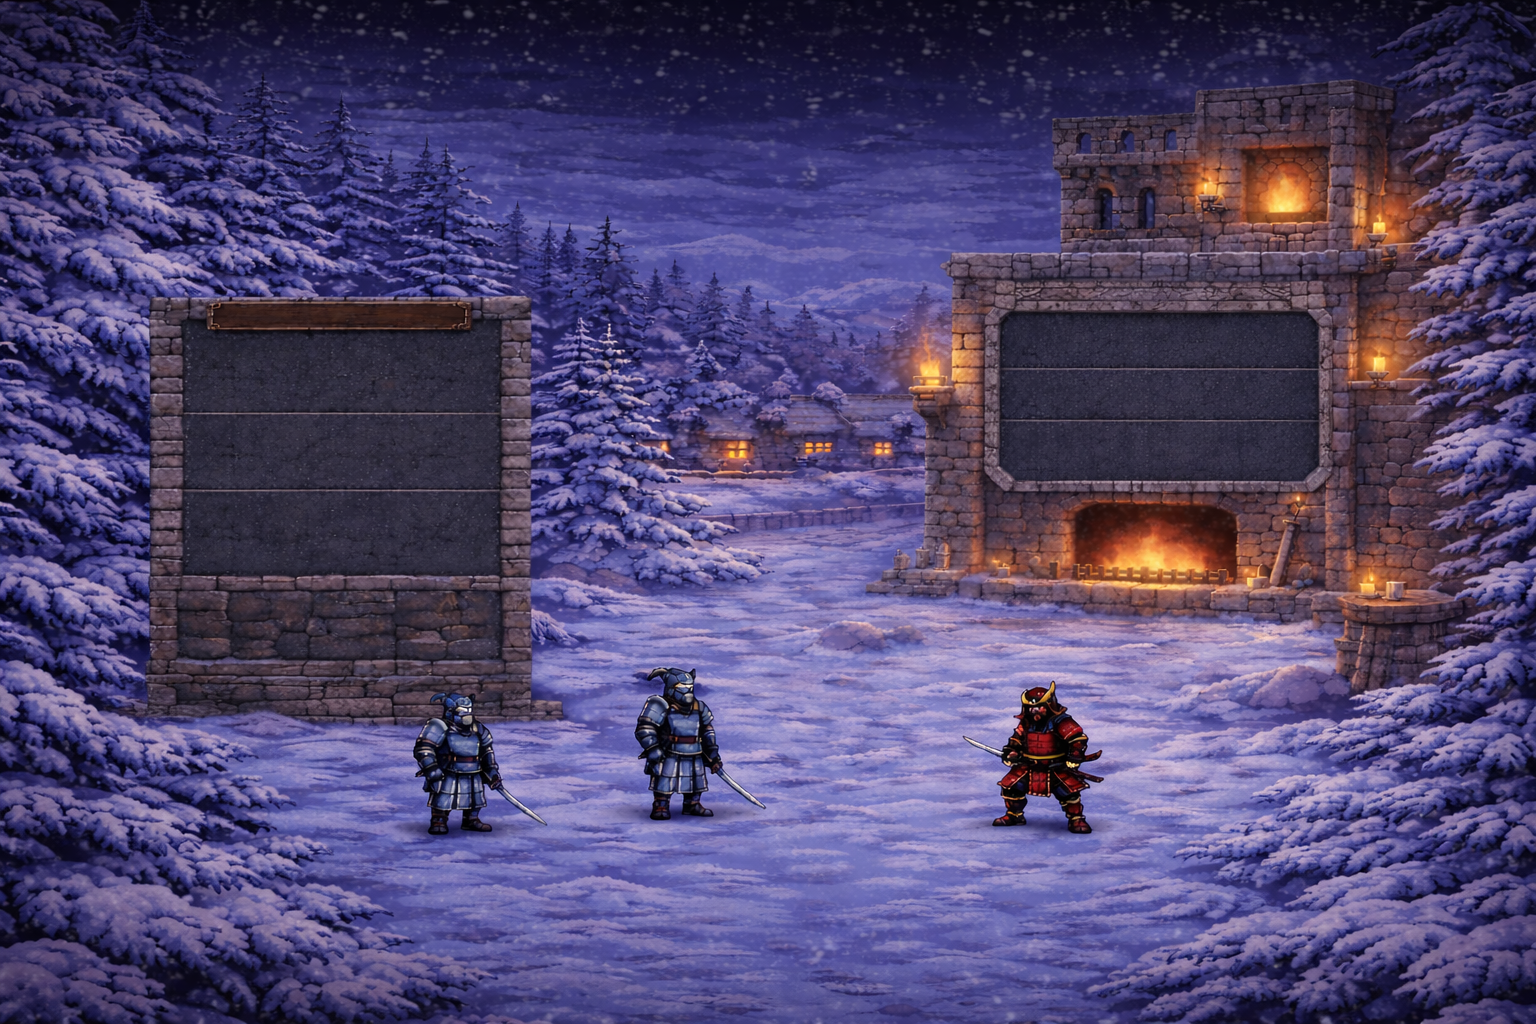
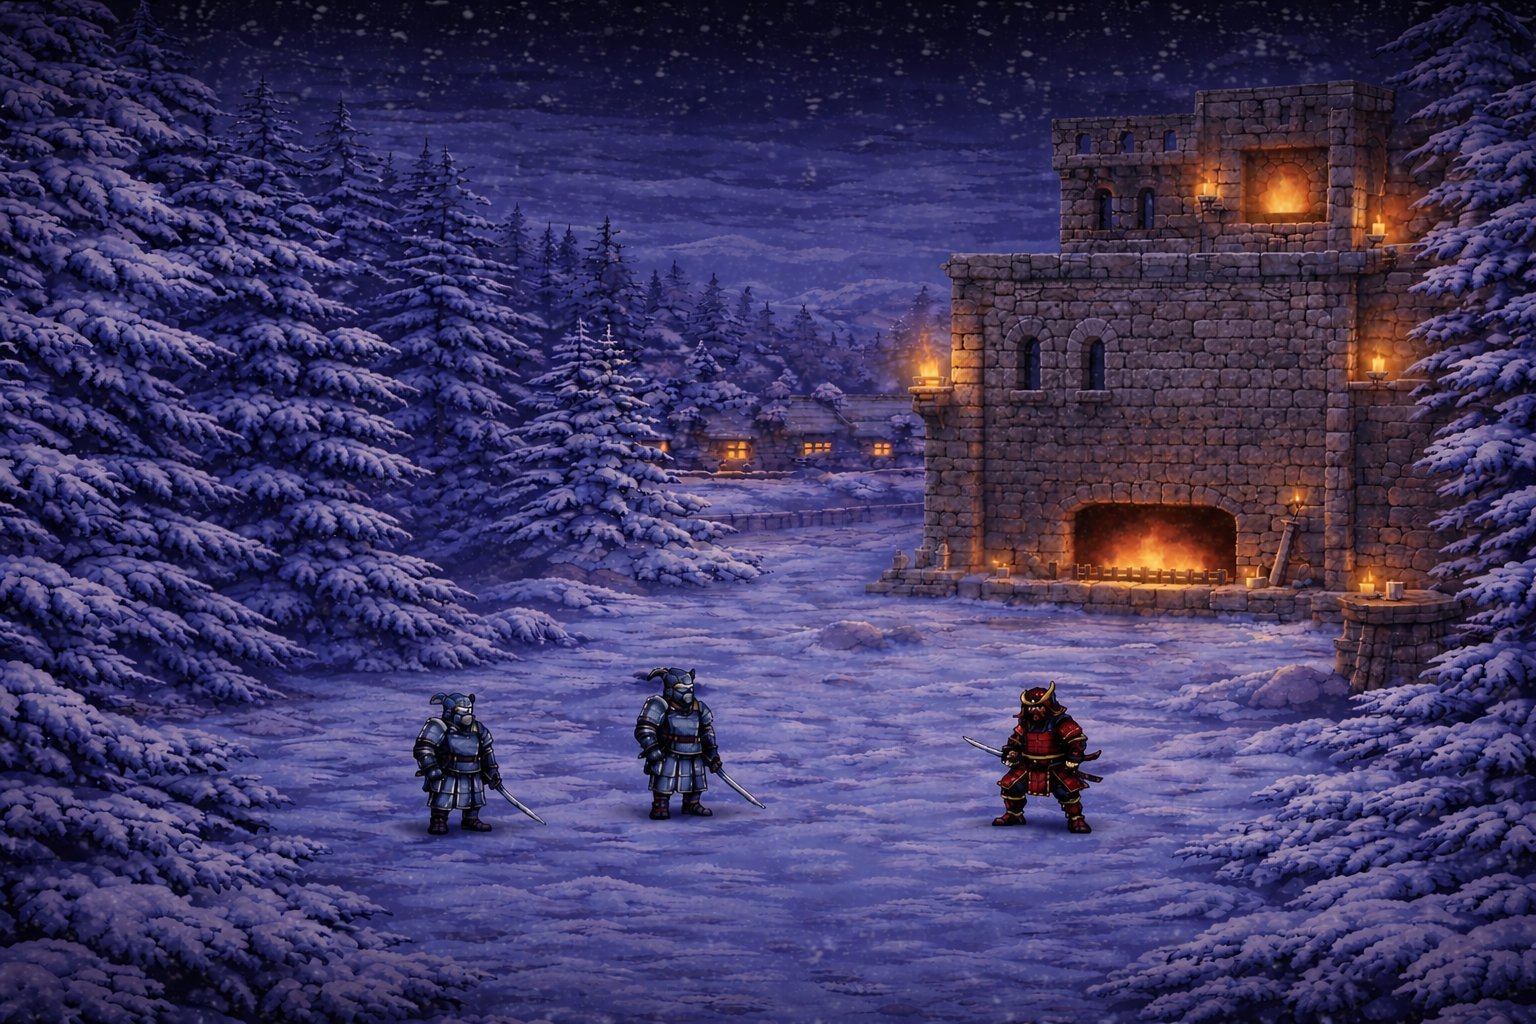
clan fixed

diff --git a/Frontend/src/pages/Clan/Clan.jsx b/Frontend/src/pages/Clan/Clan.jsx
@@ -2,9 +2,10 @@ import React, { useEffect, useRef, useState } from "react";
 import { io } from "socket.io-client";
 import Bg from "../../../public/clan_bg.png";
 import Navbar from "../../components/layout/Nav";
-import ClanLeaderbord from "../../../public/clan-leaderbord-bg.png";
 import { API_BASE } from "../../utils/api";
 import { getToken } from "../../utils/storage";
+
+const ClanLeaderbord = "/clan_leaderbord_bg.png";
 
 const initialChatMessages = [
   {
@@ -416,16 +417,16 @@ function Clan() {
         <div className="relative z-10 flex flex-1 flex-col gap-6">
           <div className="grid gap-4 lg:grid-cols-[300px_1fr_340px] lg:items-start lg:gap-8">
             <div className="flex flex-col gap-4">
-              <section className="mr-auto mt-5 translate-x-20 flex h-85 w-full max-w-70 flex-col overflow-hidden rounded-2xl  shadow-[0_18px_40px_rgba(0,0,0,0.4)]">
-                <div className="shrink-0   px-4 py-3 text-center shadow-inner">
+              <section className="mr-auto mt-5 translate-x-20 flex h-88 w-full max-w-70 flex-col overflow-hidden rounded-2xl border border-white/15 bg-black/25 backdrop-blur-md shadow-[0_18px_40px_rgba(0,0,0,0.4)]">
+                <div className="shrink-0 bg-white/5 px-4 py-3 text-center shadow-inner">
                   <h2 className="text-lg font-black uppercase tracking-[0.16em] text-yellow-300 drop-shadow-[0_2px_0_rgba(0,0,0,0.55)]">
                     Clan Chat
                   </h2>
                 </div>
 
                 <div className="flex min-h-0 flex-1 flex-col px-2.5 py-2.5 md:px-3">
-                  <div className="flex min-h-0 flex-1 flex-col rounded-2xl border-[#c9ad8a]  p-3 shadow-[inset_0_0_0_1px_rgba(92,58,31,0.35)]">
-                    <div className="min-h-0 flex-1 space-y-3 overflow-y-auto overscroll-contain pr-1 text-sm font-semibold leading-relaxed text-white">
+                  <div className="flex min-h-0 flex-1 flex-col rounded-2xl border border-[#c9ad8a]/35 bg-black/20 p-3 shadow-[inset_0_0_0_1px_rgba(92,58,31,0.35)] backdrop-blur-sm">
+                    <div className="min-h-0 flex-1 space-y-3 overflow-y-auto overscroll-contain pr-1 text-sm font-semibold leading-relaxed text-white font-[Arial,sans-serif]">
                       {chatMessages.map((message, index) => (
                         <p
                           key={message.id || `${message.author}-${index}`}
@@ -457,7 +458,7 @@ function Clan() {
                       <button
                         type="button"
                         onClick={handleSendMessage}
-                        className="rounded-md border border-[#9e7c56] bg-linear-to-b from-[#b48757] to-[#8f6339] px-3 py-2.5 text-xs font-bold uppercase tracking-widest text-[#fff4de] shadow-[0_4px_0_rgba(80,50,22,0.7)] transition-transform hover:-translate-y-0.5"
+                        className="rounded-md border border-[#9e7c56] bg-linear-to-b from-[#b48757] to-[#8f6339] px-1 py-0.5 text-xs font-bold uppercase tracking-widest text-[#fff4de] shadow-[0_4px_0_rgba(80,50,22,0.7)] transition-transform hover:-translate-y-0.5"
                       >
                         Send
                       </button>
@@ -467,8 +468,8 @@ function Clan() {
               </section>
 
               <button
-                className="relative z-20 self-end -mt-5 mr-2 w-fit bg-cover bg-center bg-no-repeat px-6 py-3 text-base font-black uppercase tracking-[0.14em] text-[#fff4de] shadow-[0_4px_0_rgba(80,50,22,0.7)] transition-transform duration-200 hover:scale-105"
-                style={{ backgroundImage: `url(${ClanLeaderbord})` }}
+                type="button"
+                className="relative z-20 self-end -mt-5 mr-2 w-fit rounded-md border border-[#9e7c56] bg-linear-to-b from-[#b48757] via-[#9a6c3f] to-[#7a4f2c] px-4 py-2 text-base font-black uppercase tracking-[0.14em] text-[#fff4de] shadow-[0_5px_0_rgba(80,50,22,0.7),0_10px_20px_rgba(0,0,0,0.35)] transition-all duration-200 hover:-translate-y-0.5 hover:brightness-110 active:translate-y-0 active:shadow-[0_2px_0_rgba(80,50,22,0.7),0_6px_14px_rgba(0,0,0,0.35)]"
               >
                 1v1 Challenge
               </button>
@@ -478,28 +479,25 @@ function Clan() {
               aria-hidden="true"
             />
 
-            <section className="h-[12rem] w-[98%] overflow-hidden rounded-2xl shadow-[0_18px_40px_rgba(0,0,0,0.4)] lg:w-[90%] lg:-translate-x-16 lg:-translate-y-0.5 flex flex-col">
-              <div
-                className="bg-fit bg-center bg-no-repeat px-3 py-0.5 text-center shadow-inner"
-                style={{ backgroundImage: `url(${ClanLeaderbord})` }}
-              >
-                <h2 className="text-lg font-black uppercase tracking-[0.16em] text-yellow-300 drop-shadow-[0_2px_0_rgba(0,0,0,0.55)] md:text-xl mt-1 ">
+            <section className="relative flex h-32 w-[98%] flex-col overflow-hidden rounded-2xl border border-white/15 bg-black/20 backdrop-blur-md shadow-[0_18px_40px_rgba(0,0,0,0.4)] lg:h-52 lg:w-[90%] lg:-translate-x-16 lg:-translate-y-0.5">
+              <div className="relative z-10 bg-black/20 px-2.5 py-1.5 text-center shadow-inner">
+                <h2 className="mt-0.5 text-base font-black uppercase tracking-[0.16em] text-yellow-300 drop-shadow-[0_2px_0_rgba(0,0,0,0.55)] md:text-lg">
                   Clan Leaderboard
                 </h2>
               </div>
 
-              <div className="min-h-0 flex-1  px-1.5 py-1.5 md:px-2 md:py-1.5">
-                <div className="h-full space-y-1 rounded-2xl  p-1.5 shadow-[inset_0_0_0_1px_rgba(92,58,31,0.35)] md:p-2">
+              <div className="relative z-10 min-h-0 flex-1 px-1.5 py-1 md:px-1.5 md:py-1">
+                <div className="h-full space-y-1 rounded-2xl border border-white/10 bg-black/20 p-1.5 shadow-[inset_0_0_0_1px_rgba(92,58,31,0.35)] backdrop-blur-sm md:p-1.5">
                   {leaderboardMembers.slice(0, 3).map((member) => (
                     <div
                       key={member.name}
-                      className="flex items-center justify-between rounded-md px-2 py-1 text-xs text-white shadow-inner md:px-2.5 md:py-1.5 md:text-sm"
+                      className="flex items-center justify-between rounded-md border border-white/10 bg-white/10 px-2 py-1 text-xs text-white shadow-inner md:px-2 md:py-1 md:text-sm"
                     >
                       <div>
                         <p className="font-black uppercase tracking-[0.08em] leading-tight">
                           {member.name}
                         </p>
-                        <p className="text-[9px] uppercase tracking-[0.1em] leading-tight text-white/75 md:text-[10px]">
+                        <p className="text-[9px] uppercase tracking-widest leading-tight text-white/75 md:text-[10px]">
                           {member.title} LvL {member.level}
                         </p>
                       </div>
